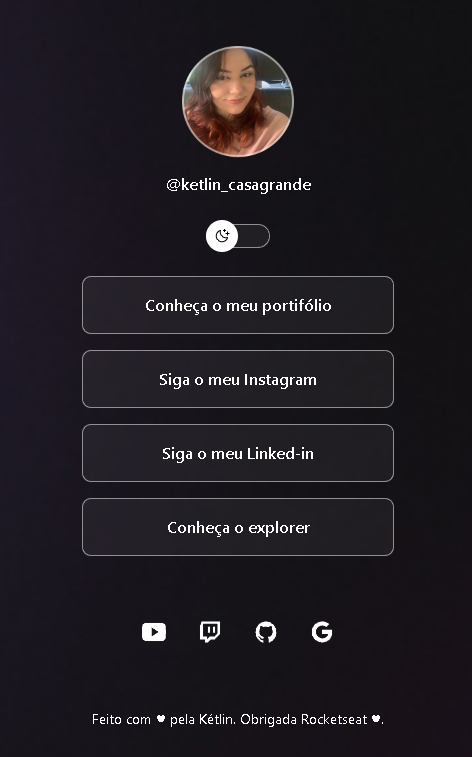
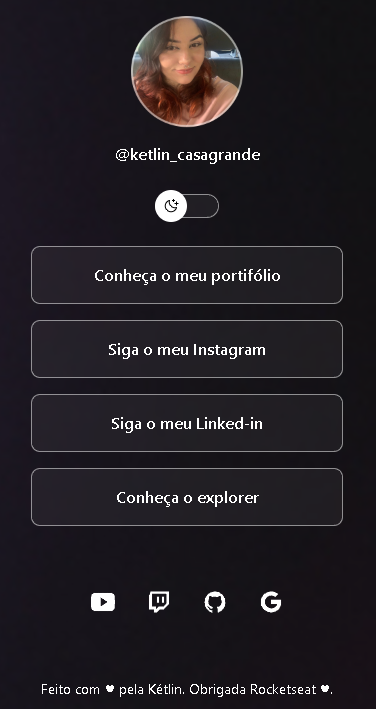
Upload

diff --git a/Html/README.md b/Html/README.md
@@ -15,10 +15,16 @@ Programa exclusivo e gratuito, promovido pela Rocketseat para ensino de tecnolog
   <img alt="License" src="https://img.shields.io/static/v1?label=license&message=MIT&color=49AA26&labelColor=000000">
 </p>
 
+<p align="center">Versão Mobile Ketlin Casagrande
+<p align="center">
+  <img alt="Projeto DevLinks" src="./assets/mobile light.png" width="40%">
+  <img alt="Projeto DevLinks" src="./assets/mobile dark.png" width="41%">
+</p>
+
 <br>
 
 <p align="center">
-  <img alt="Projeto DevLinks" src="./assets/Preview.png" width="100%">
+  <img alt="Projeto DevLinks" src="./assets/Preview.png" width="70%">
 </p>
 
 ## 🚀 Tecnologias
@@ -36,7 +42,7 @@ O Devlinks é um agregador de links para usar como cartão de visitas online.
 
 ## 🔖 Layout
 
-Você pode visualizar o layout do projeto através [DESSE LINK]( ). É necessário ter conta no [Figma](https://figma.com) para acessá-lo.
+Você pode visualizar o layout do projeto através [DESSE LINK](https://www.figma.com/design/UyyQwyEGgS2NuQYUxbPDUp/DevLinks-%E2%80%A2-Projeto-Discover-(Community)?node-id=10-620&p=f&t=ff9kR3ieKsWEmusd-0 ). É necessário ter conta no [Figma](https://figma.com) para acessá-lo.
 
 ## :memo: Licença
 
